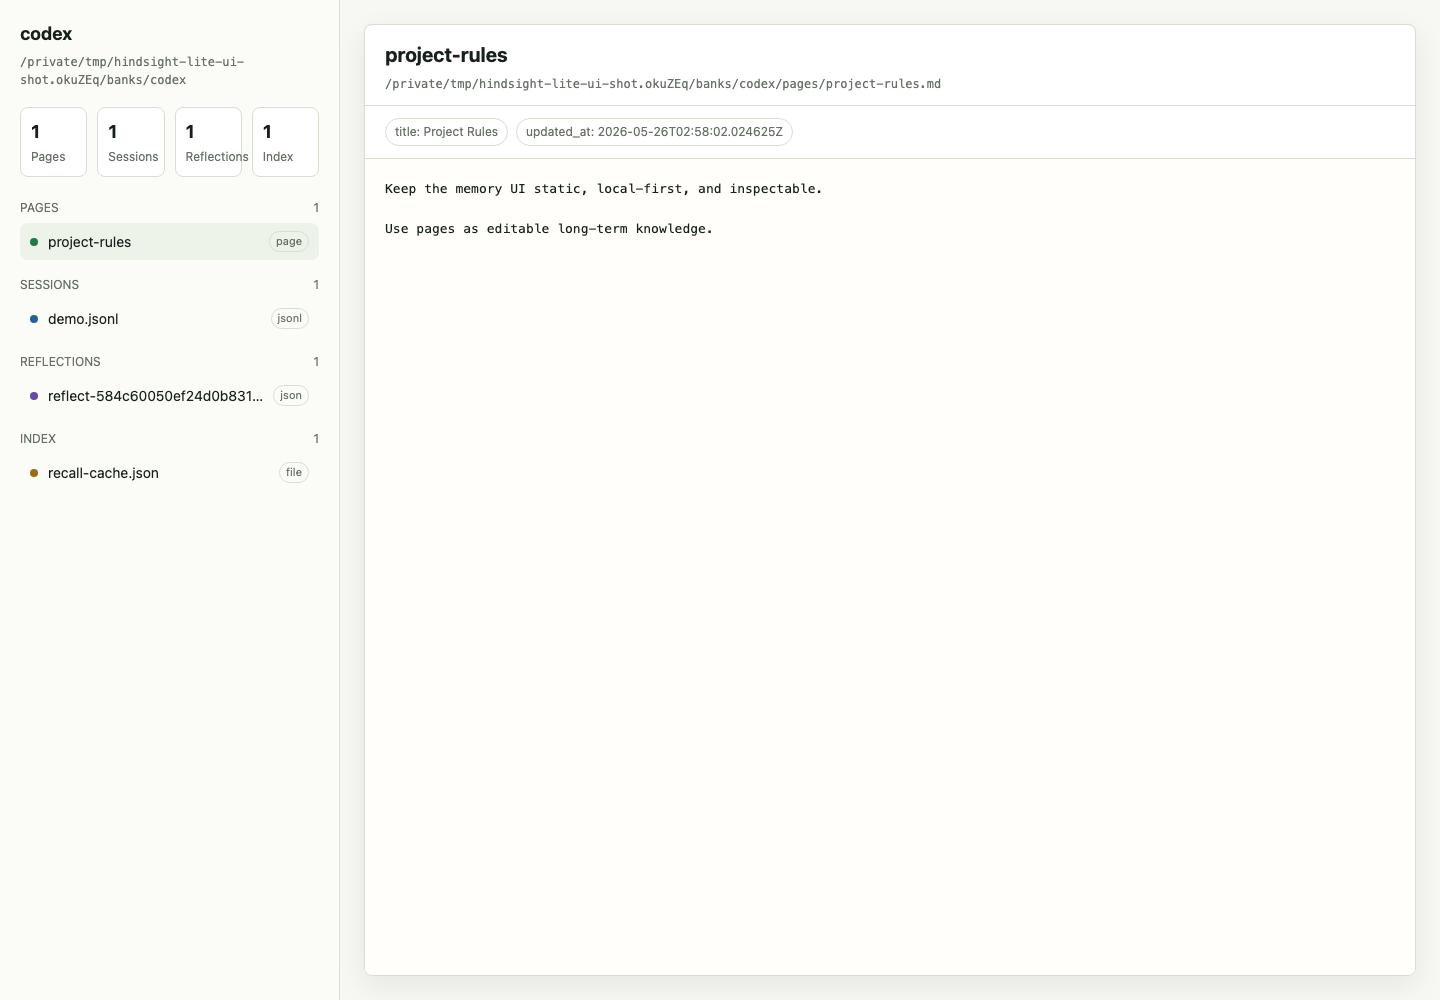
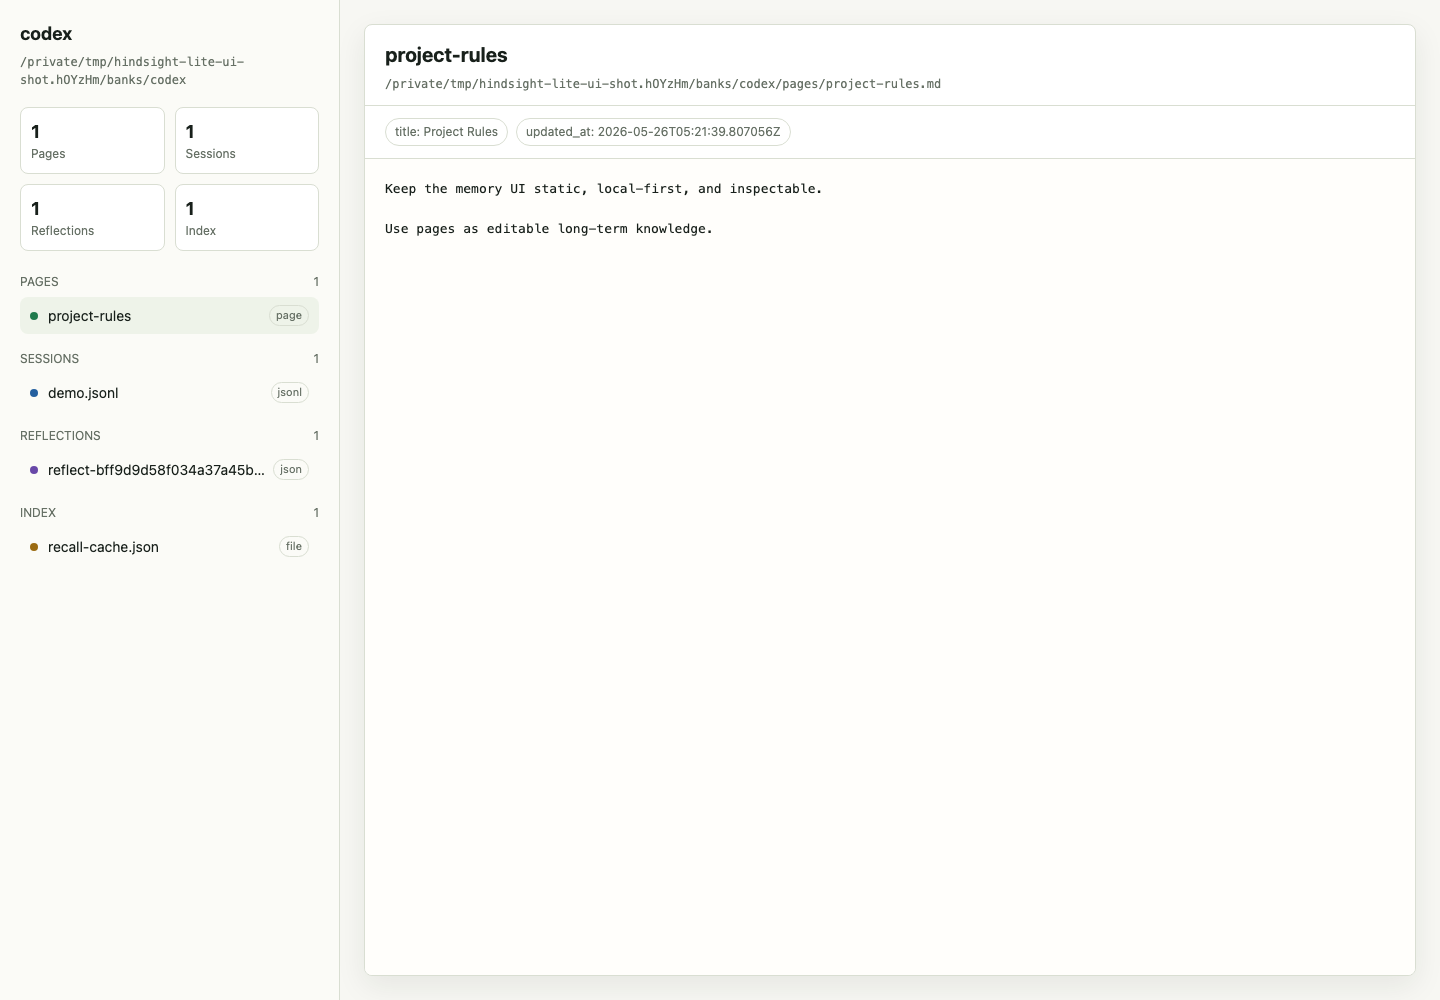
fix: prevent memory ui metric overflow

diff --git a/hindsight_lite/memory_ui.py b/hindsight_lite/memory_ui.py
@@ -197,7 +197,7 @@ _HTML_TEMPLATE = """<!doctype html>
     }
     .summary {
       display: grid;
-      grid-template-columns: repeat(4, minmax(0, 1fr));
+      grid-template-columns: repeat(2, minmax(0, 1fr));
       gap: 10px;
       margin: 18px 0 22px;
     }
@@ -206,9 +206,15 @@ _HTML_TEMPLATE = """<!doctype html>
       background: var(--panel);
       padding: 10px;
       border-radius: 8px;
+      min-width: 0;
     }
     .metric strong { display: block; font-size: 18px; }
-    .metric span { color: var(--muted); font-size: 12px; }
+    .metric span {
+      color: var(--muted);
+      display: block;
+      font-size: 12px;
+      overflow-wrap: anywhere;
+    }
     .section {
       margin-top: 16px;
     }
@@ -321,7 +327,6 @@ _HTML_TEMPLATE = """<!doctype html>
       .app { grid-template-columns: 1fr; }
       aside { border-right: 0; border-bottom: 1px solid var(--line); }
       main { padding: 14px; }
-      .summary { grid-template-columns: repeat(2, minmax(0, 1fr)); }
       .viewer { min-height: 70vh; }
     }
   </style>

diff --git a/tests/hindsight_lite/test_memory_ui.py b/tests/hindsight_lite/test_memory_ui.py
@@ -13,6 +13,7 @@ def test_render_memory_ui_includes_memory_tree_snapshot(tmp_path: Path) -> None:
     html = render_memory_ui(store)
 
     assert "<!doctype html>" in html
+    assert "grid-template-columns: repeat(2, minmax(0, 1fr));" in html
     assert "project-rules" in html
     assert "session-1.jsonl" in html
     assert "reflect-1.json" in html
